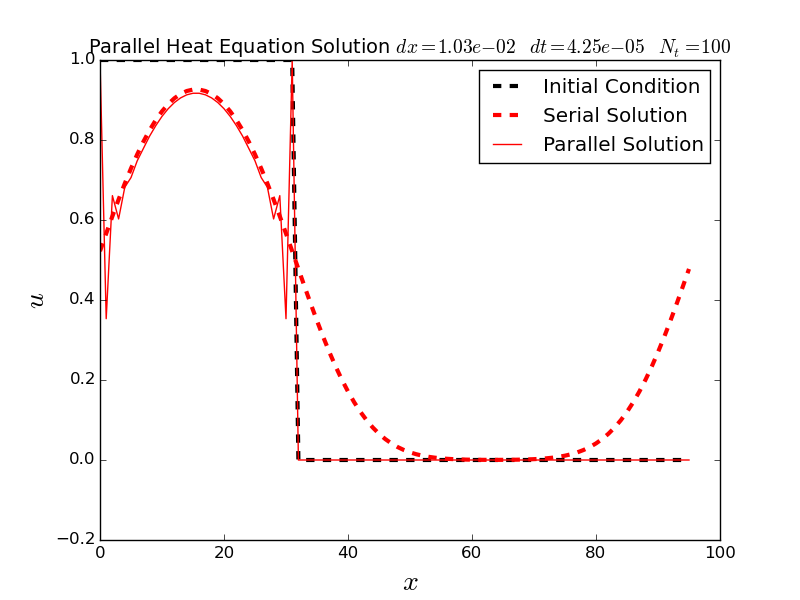
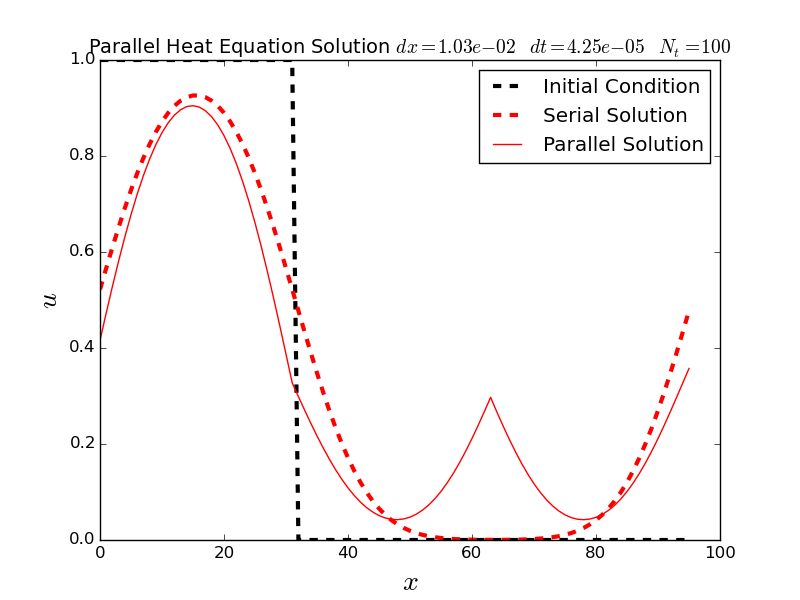
right number of ghost cells, no hang, just experiencing problems with transferring info to the right_ghost and left_spirit

diff --git a/src/heat.c b/src/heat.c
@@ -1,5 +1,6 @@
 #include <stdlib.h>
 #include <mpi.h>
+#include <stdio.h>
 
 /*
   array_copy
@@ -110,51 +111,30 @@ void heat_parallel(double* uk, double dx, size_t Nx, double dt, size_t Nt,
 	START IMPLEMENT YOUR SOLUTON HERE ZONE
   */
 
+  printf("\n[%d] Data array:\n", rank);
+  double left_ghost, right_ghost = ukt[Nx-1];
+  double left_spirit, right_spirit = ukt[Nx+1];
+  int left_process = (rank-1+size) % size;
+  int right_process = (rank+1) % size;
+
+
   for (size_t step=0; step<Nt; ++step)
     {
 
-        double left_ghost, right_ghost = ukt[Nx-1];
-        double left_spirit, right_spirit = ukt[Nx+1];
-        int left_process = (rank-1+size) % size;
-        int right_process = (rank+1) % size;
-          if ( 0 == rank )
-          {
-          MPI_Isend ( &right_ghost, 1, MPI_DOUBLE, right_process, 1, MPI_COMM_WORLD, &req);
-          MPI_Recv ( &left_spirit, 1, MPI_DOUBLE, right_process, 2, MPI_COMM_WORLD, &stat );
-          }
-          if ( rank == size-1 )
-          {
-          MPI_Irecv ( &left_ghost, 1,  MPI_DOUBLE, left_process, 1, MPI_COMM_WORLD, &req );
-          MPI_Send ( &right_spirit, 1, MPI_DOUBLE, left_process, 2, MPI_COMM_WORLD );
-          }
-/*        
-        if ( 0 < rank )
-        {
-          MPI_Send ( &ukt[1], 1, MPI_DOUBLE, rank-1, 1, MPI_COMM_WORLD );
-        }
-        if ( rank < size-1 )
-        {
-          MPI_Recv ( &ukt[Nt+1], 1,  MPI_DOUBLE, rank+1, 1, MPI_COMM_WORLD, &stat );
-        }
+      printf("shift:%ld [%d -> %d] sending boundary data = %f\n", step, rank, right_process, right_ghost);
+      MPI_Isend ( &right_ghost, 1, MPI_DOUBLE, right_process, 1, MPI_COMM_WORLD, &req);
+      printf("shift:%ld [%d -> %d] sending boundary data = %f\n", step, rank, left_process, left_spirit);
+      MPI_Isend ( &left_spirit, 1, MPI_DOUBLE, left_process, 2, MPI_COMM_WORLD, &req );
 
-        if ( rank < size-1 )
-        {
-          MPI_Send ( &ukt[Nt], 1, MPI_DOUBLE, rank+1, 2, MPI_COMM_WORLD );
-        }
-
-        if ( 0 < rank )
-        {
-          MPI_Recv ( &ukt[0], 1, MPI_DOUBLE, rank-1, 2, MPI_COMM_WORLD, &stat );
-        }
-*/
       // update using Forward Euler
       for (size_t i=1; i<(Nx-1); ++i)
         uktp1[i] = ukt[i] + nu*(ukt[i-1] - 2*ukt[i] + ukt[i+1]);
 
-
-      uktp1[0] = left_ghost;
+      MPI_Recv ( &right_spirit, 1, MPI_DOUBLE, right_process, 2, MPI_COMM_WORLD, &stat );
+      MPI_Recv ( &left_ghost, 1,  MPI_DOUBLE, left_process, 1, MPI_COMM_WORLD, &stat );
+      uktp1[0] = ukt[0] + nu*(left_ghost - 2*ukt[0] + ukt[1]);
       right_ghost = uktp1[Nx-1];
-      uktp1[Nx-1] = right_spirit;
+      uktp1[Nx-1] = ukt[Nx-1] + nu*(ukt[Nx-2] - 2*ukt[Nx-1] + right_spirit);
       left_spirit = uktp1[Nx-2];
 
 
